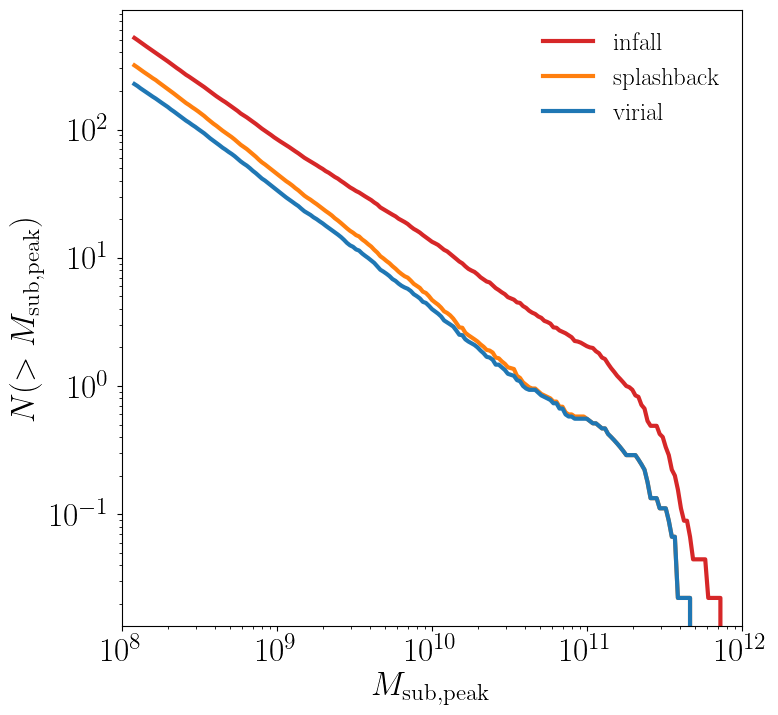
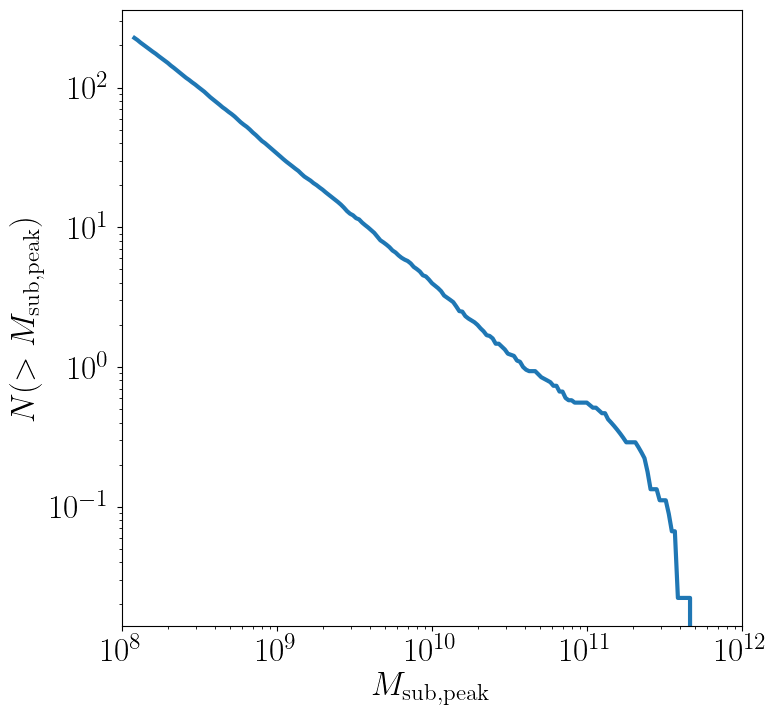
Fixed documentation compilation errors.

diff --git a/docs/source/conf.py b/docs/source/conf.py
@@ -54,4 +54,4 @@ html_theme = 'alabaster'
 # Add any paths that contain custom static files (such as style sheets) here,
 # relative to this directory. They are copied after the builtin static files,
 # so a file named "default.css" will overwrite the builtin "default.css".
-html_static_path = ['_static']
+html_static_path = []

diff --git a/docs/source/simulations.rst b/docs/source/simulations.rst
@@ -1,8 +1,8 @@
 Symphony: Cosmological Zoom-in Simulations over Four Decades of Host Halo Mass
-===============
+==============================================================================
 
 About the Simulations
-------------
+---------------------
 
 ``Symphony`` is a compilation of 262 cosmological, cold dark matter-only zoom-in simulations spanning four decades of host halo mass, from 10^11 Msun to 10^15 Msun. In particular, ``Symphony`` includes zoom-in simulations of 39 Large Magellanic Cloud-mass host halos (10^11 Msun), 45 Milky Way-mass host halos (10^12 Msun), 49 strong lens analog Group host halos (10^13 Msun), 33 Low-mass Cluster host halos (5*10^14 Msun), and 96 Cluster host halos (10^15 Msun).
 
@@ -12,7 +12,7 @@ Each simulation is run at high resolution relative to the corresponding host hal
    :width: 1000
 
 Technical Details
------------------------
+-----------------
 
 Please refer to E. O. Nadler et al. (2022, in preparation) for complete technical details regarding the five ``Symphony`` simulation suites, including the simulations' numerical and cosmological parameters, convergence properties, host and subhalo population properties, and so on. The table below summarizes the relevant properties of each simulation suite. Note that the Milky Way, L-Cluster, and Cluster suites were originally presented in `Mao et al 2015 <https://iopscience.iop.org/article/10.1088/0004-637X/810/1/21>`_, `Bhattacharyya et al 2022 <https://iopscience.iop.org/article/10.3847/1538-4357/ac68e9>`_, and `Wu et al 2013a <https://iopscience.iop.org/article/10.1088/0004-637X/763/2/70>`_, `2013b <https://iopscience.iop.org/article/10.1088/0004-637X/767/1/23>`_, respectively. In addition to citing E. O. Nadler et al. (2022, in preparation), studies that use any of these suites should also cite these original papers.
 
@@ -20,6 +20,6 @@ Please refer to E. O. Nadler et al. (2022, in preparation) for complete technica
    :width: 1000
 
 Publications
-------------------------------------------
+------------
    
 * E. O. Nadler et al. (2022, in preparation) presents the ``Symphony`` compilation and studies the corresponding host and subhalo population properties, comparisons between ``Symphony`` simulations and semi-analytic structure formation predictions, galaxy--halo connection modeling using ``Symphony``, and ``Symphony`` simulations' convergence properties.

diff --git a/docs/source/getting_started.rst b/docs/source/getting_started.rst
@@ -200,10 +200,13 @@ Constructing a mass function has a bit more code overhead than the earlier examp
 	h, hist = symlib.read_subhalos(sim_dir)
 
 	# Only count objects within R_vir
+        host_rvir = h[0,-1]["rvir"]
+        sub_x = h[:,-1]["x"]
+        r = np.sqrt(np.sum(sub_x**2, axis=1))
         ok = h["ok"][:,-1] & (r < host_rvir)
-        n_vir, _ = np.histogram(hist["mpeak"][ok][1:], bins=bins)
 
-	# Add to the cumulative histogram.
+        # Put in bins and add to cumulative histogram
+        n_vir, _ = np.histogram(hist["mpeak"][ok][1:], bins=bins)
 	N_vir += np.cumsum(n_vir[::-1])[::-1]/n_hosts
 
     plt.plot(bins[:-1], N_vir, "k")
@@ -213,10 +216,7 @@ With a little bit of additional pyplot work, this gives us the following. The fu
 .. image:: mass_func.png
    :width: 500
 
-.. note::
-   Need to regenerate this plot so it only has one curve.
-
-Here, we can see the classic form of the subhalo mass function. At smaller subhalo masses, decreasing the subhalo mass by a increses the number of subhalos by roughly the same multiplicative factor, and there's a cutoff as the subhalos get close to the host mass.
+Here, we can see the classic form of the subhalo mass function. At smaller subhalo masses, decreasing the subhalo mass by a increses the number of subhalos by :math:`N \lesssim M^{-1}`, and there's an exponential cutoff as the subhalos get close to the host mass.
    
 Let's review the concepts that went into creating this image: 
 
